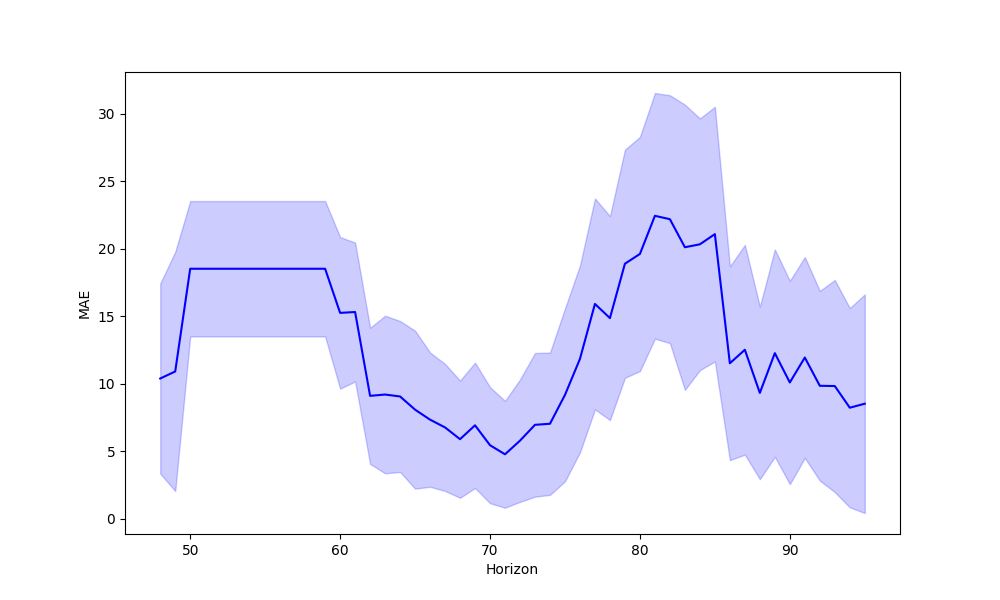
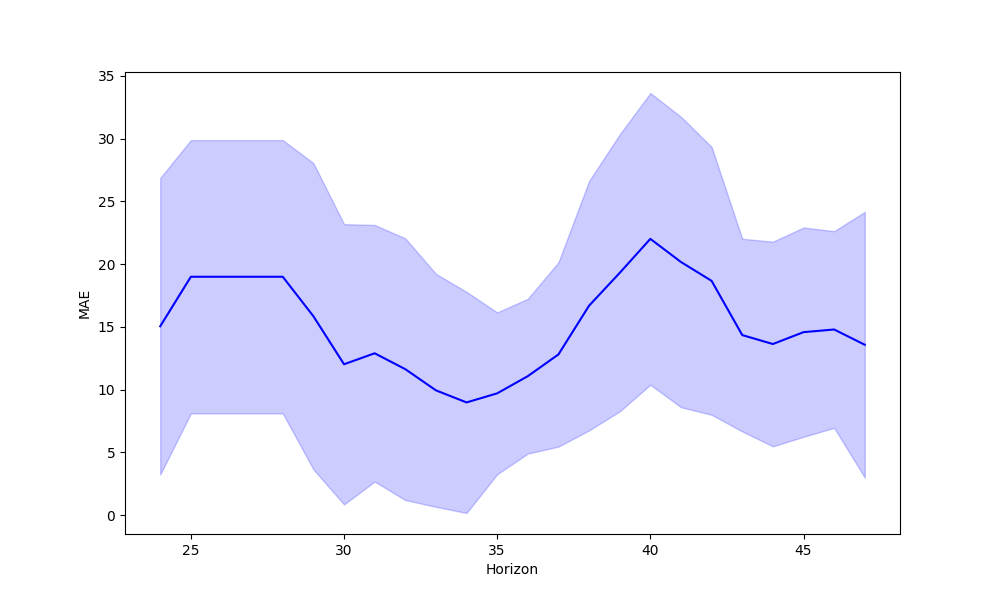
fix: update models to handle 24hour intervals

diff --git a/src/fit_prophet.py b/src/fit_prophet.py
@@ -16,7 +16,7 @@ def cv_single_fold(train_ind, test_ind, df, freq):
                         weekly_seasonality = True, 
                         daily_seasonality = True,
                         epochs=50,
-                        batch_size=48,
+                        batch_size=24,
                         learning_rate=0.2,
                         loss_func = "MAE"
                         )
@@ -27,7 +27,7 @@ def cv_single_fold(train_ind, test_ind, df, freq):
     
     return mae_val
 
-def cross_validate(df, data_generator, freq="30min", n_cores:int=1):
+def cross_validate(df, data_generator, freq="1h", n_cores:int=1):
     '''
     function to cross validate the model
     '''
@@ -57,13 +57,13 @@ def main():
 
     # split the data
     gap = 24
-    max_train_size = 48 * 7 * 2 # 24 hours x 7 (days) x 2 (weeks)
-    generator = split_timeseries_data(df['ds'], gap=gap, test_size=48, max_train_size=max_train_size)
+    max_train_size = 24 * 7 * 2 # 24 hours x 7 (days) x 2 (weeks)
+    generator = split_timeseries_data(df['ds'], gap=gap, test_size=24, max_train_size=max_train_size)
 
     # cross validate
     print("[INFO:] Cross-validating the model...")
     n_cores = mp.cpu_count() - 1
-    mean_mae, sd_mae = cross_validate(df, generator, freq="30min", n_cores=n_cores)
+    mean_mae, sd_mae = cross_validate(df, generator, freq="1h", n_cores=n_cores)
 
     print(f"Mean MAE: {mean_mae}")
     print(f"SD MAE: {sd_mae}")

diff --git a/src/fit_baselines.py b/src/fit_baselines.py
@@ -42,7 +42,7 @@ def mean_model(df, df_tests):
 
     return mae
 
-def naive_model(df_trains, df_tests, gap=48):
+def naive_model(df_trains, df_tests, gap=24):
     '''
     Naive model which always predicts last value in the training set (per fold)
     '''
@@ -73,7 +73,7 @@ def weekly_naive_model(df, df_tests):
     Seasonal naive model which predicts the value from the same time one week ago
     '''
     # calculate how many indexes to go back to get the value from one week ago
-    timesteps_back = 48 * 7
+    timesteps_back = 24 * 7
 
     # loop over each row in the test set
     for i, row in df_tests.iterrows():
@@ -130,8 +130,8 @@ def main():
 
     # split the data
     gap = 24
-    max_train_size = 48 * 7 * 2 # 24 hours x 7 (days) x 2 (weeks)
-    generator = split_timeseries_data(df['ds'], gap=gap, test_size=48, max_train_size=max_train_size)
+    max_train_size = 24 * 7 * 2 # 24 hours x 7 (days) x 2 (weeks)
+    generator = split_timeseries_data(df['ds'], gap=gap, test_size=24, max_train_size=max_train_size)
     df_trains, df_tests = get_splits(df, generator)
 
     # fit the mean model
